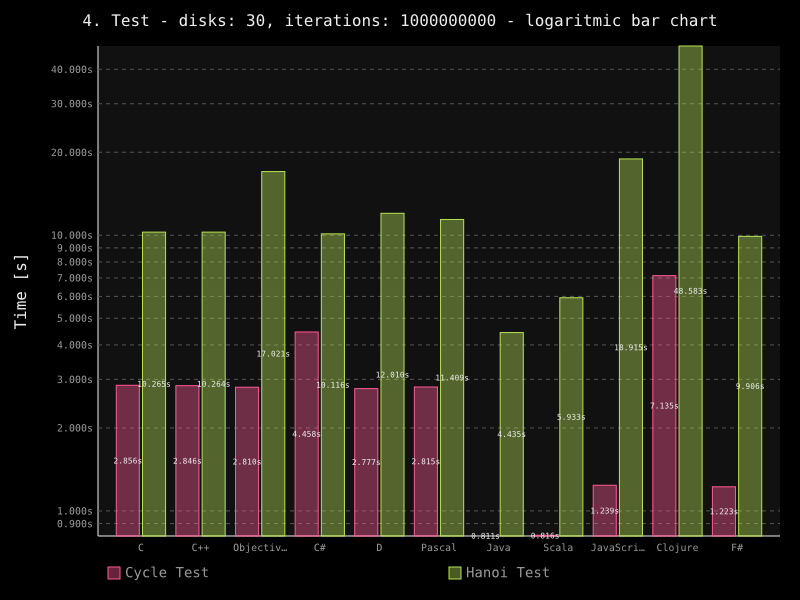
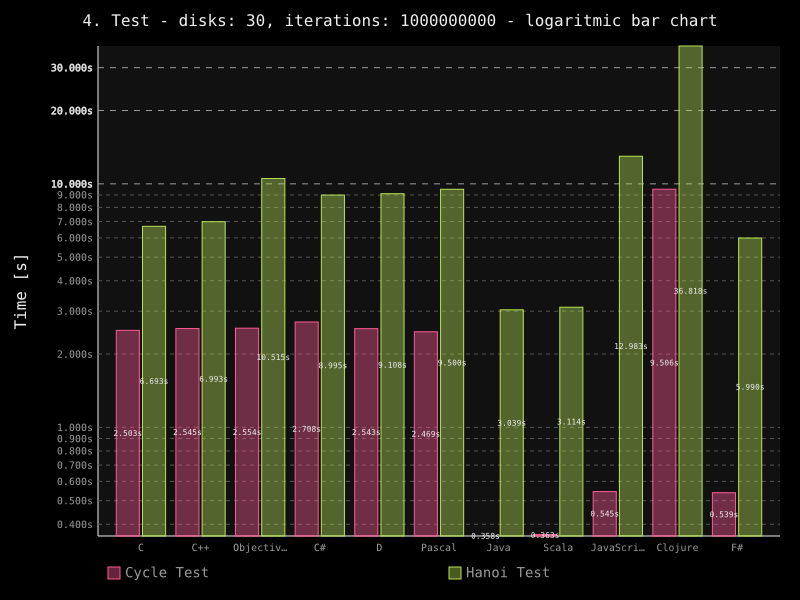
Tested on new device, optimized benchmark time

diff --git a/evaluator/evaluator.py b/evaluator/evaluator.py
@@ -154,12 +154,15 @@ class Evaluator():
                             'iters': test[2], 'results': []})
 
             for lang in languages:
-                if lang.is_available():
+                if lang.is_skipped():
+                    results[-1]['results'].append((lang.name, {}))
+                elif lang.is_available():
                     output = []
                     for _ in range(average):
                         output.append(lang.evaluate(params, timeout))
                         if output[-1] is None:
                             results[-1]['results'].append((lang.name, {}))
+                            lang.skip = True
                             print(bad_output % lang.name)
                             break
                     else:

diff --git a/evaluator/languages.py b/evaluator/languages.py
@@ -44,6 +44,7 @@ class Language(object):
     """ Abstract language class. """
 
     def __init__(self, config_lang):
+        self.skip = False
         self.name = config_lang.NAME
         self.program = config_lang.PROGRAM
 
@@ -60,6 +61,9 @@ class Language(object):
     def run_process(cls, command, timeout=None):
         """ Runs safely process. """
         return ProcessManager.run_process(command, timeout)
+
+    def is_skipped(self):
+        return self.skip
 
     def is_available(self):
         """ Checks if compiler is available """

diff --git a/README.md b/README.md
@@ -86,7 +86,7 @@ Bash and where I would use Swift in future.
 | :-----: | :-----: |
 | Operating System | Darwin-13.2.0-x86_64-i386-64bit |
 | Processor | i386 |
-| Total memory | 2.000GB |
+| Total memory | 4.000GB |
 
 ### Compilers & Interpreters
 
@@ -110,7 +110,7 @@ Bash and where I would use Swift in future.
 | Bash | GNU bash, version 3.2.51(1)-release (x86_64-apple-darwin13) |
 | Prolog | SWI-Prolog version 6.6.6 for x86_64-darwin13.1.0 |
 | Erlang | Erlang (SMP,ASYNC_THREADS,HIPE) (BEAM) emulator version 6.1 |
-| Common Lisp | GNU CLISP 2.49 (2010-07-07) (built 3612292961) (memory 3612293171) |
+| Common Lisp | GNU CLISP 2.49 (2010-07-07) (built on stefans-mac.local [192.168.240.128]) |
 | Clojure | Clojure 1.6.0 |
 | F# | F# Compiler for F# 3.1 (Open Source Edition) |
 | Haskell | The Glorious Glasgow Haskell Compilation System, version 7.6.3 |
@@ -126,29 +126,29 @@ to construct tables and graphs.
     
 | Lang | Avg. cycles | Std. cycles | Avg. hanoi | Std. hanoi |
 | :-----: | :-----: | :-----: | :-----: | :-----: |
-| C | 0.003s | 0.00% | 0.000s | 0.00% |
-| C++ | 0.003s | 0.00% | 0.000s | 0.00% |
-| Objective-C | 0.003s | 0.00% | 0.001s | 0.00% |
-| C# | 0.004s | 15.81% | 0.000s | 0.00% |
-| D | 0.002s | 22.36% | 0.000s | 0.00% |
-| Pascal | 0.002s | 31.62% | 0.000s | 0.00% |
-| Java | 0.004s | 11.18% | 0.001s | 44.72% |
-| Scala | 0.004s | 91.52% | 0.001s | 44.72% |
-| Lua | 0.146s | 7.24% | 0.008s | 13.69% |
-| JavaScript | 0.001s | 77.46% | 0.003s | 94.28% |
-| ActionScript3 | 0.004s | 19.36% | 0.017s | 3.72% |
-| PHP | 0.164s | 6.25% | 0.125s | 3.04% |
-| Ruby | 0.028s | 3.91% | 0.008s | 9.68% |
-| Python | 0.134s | 5.06% | 0.026s | 14.39% |
-| Perl | 0.113s | 2.91% | 0.054s | 2.62% |
-| Bash | 26.610s | 4.45% | 4.356s | 4.08% |
-| Prolog | 0.053s | 4.85% | 0.014s | 137.88% |
-| Erlang | 5.607s | 5.94% | 1.321s | 9.91% |
-| Common Lisp | 1.607s | 9.66% | 0.147s | 12.12% |
-| Clojure | 0.113s | 27.57% | 0.034s | 14.53% |
-| F# | 0.001s | 77.46% | 0.000s | 0.00% |
-| Haskell | 1.331s | 5.62% | 0.116s | 4.48% |
-| Scheme | 0.647s | 3.23% | 0.073s | 1.73% |
+| C | 0.002s | 38.73% | 0.000s | 0.00% |
+| C++ | 0.002s | 22.36% | 0.000s | 0.00% |
+| Objective-C | 0.002s | 22.36% | 0.000s | 0.00% |
+| C# | 0.002s | 0.00% | 0.000s | 0.00% |
+| D | 0.003s | 68.31% | 0.000s | 0.00% |
+| Pascal | 0.001s | 77.46% | 0.000s | 0.00% |
+| Java | 0.002s | 38.73% | 0.000s | 0.00% |
+| Scala | 0.004s | 41.83% | 0.002s | 63.25% |
+| Lua | 0.068s | 4.83% | 0.003s | 25.82% |
+| JavaScript | 0.001s | 0.00% | 0.001s | 63.25% |
+| ActionScript3 | 0.004s | 33.54% | 0.012s | 9.86% |
+| PHP | 0.081s | 15.42% | 0.087s | 5.34% |
+| Ruby | 0.023s | 16.73% | 0.005s | 17.89% |
+| Python | 0.092s | 1.82% | 0.015s | 2.98% |
+| Perl | 0.058s | 3.86% | 0.032s | 5.59% |
+| Bash | 18.054s | 8.86% | 3.054s | 6.27% |
+| Prolog | 0.036s | 6.92% | 0.002s | 124.50% |
+| Erlang | 2.179s | 2.74% | 0.726s | 1.57% |
+| Common Lisp | 0.866s | 0.65% | 0.067s | 4.11% |
+| Clojure | 0.059s | 42.61% | 0.027s | 17.29% |
+| F# | 0.001s | 0.00% | 0.000s | 0.00% |
+| Haskell | 0.846s | 6.23% | 0.069s | 4.15% |
+| Scheme | 0.412s | 5.69% | 0.042s | 6.30% |
 
 ![Bar graph results 1](results/bar_graph1.png)
 
@@ -158,29 +158,29 @@ to construct tables and graphs.
     
 | Lang | Avg. cycles | Std. cycles | Avg. hanoi | Std. hanoi |
 | :-----: | :-----: | :-----: | :-----: | :-----: |
-| C | 0.037s | 38.87% | 0.011s | 14.08% |
-| C++ | 0.028s | 4.23% | 0.010s | 4.47% |
-| Objective-C | 0.028s | 3.57% | 0.017s | 0.00% |
-| C# | 0.044s | 1.76% | 0.010s | 4.47% |
-| D | 0.030s | 16.06% | 0.015s | 52.15% |
-| Pascal | 0.028s | 6.78% | 0.011s | 16.26% |
-| Java | 0.012s | 16.67% | 0.007s | 37.80% |
-| Scala | 0.015s | 42.58% | 0.010s | 26.08% |
-| Lua | 1.409s | 1.62% | 0.249s | 8.22% |
-| JavaScript | 0.012s | 7.45% | 0.019s | 3.33% |
-| ActionScript3 | 0.047s | 2.33% | 0.573s | 2.73% |
-| PHP | 2.018s | 30.20% | 5.011s | 17.71% |
-| Ruby | 0.281s | 0.69% | 0.261s | 7.10% |
-| Python | 1.291s | 1.80% | 0.716s | 2.39% |
-| Perl | 1.116s | 1.27% | 1.727s | 3.51% |
+| C | 0.024s | 3.23% | 0.006s | 10.54% |
+| C++ | 0.024s | 3.23% | 0.006s | 0.00% |
+| Objective-C | 0.024s | 3.23% | 0.010s | 0.00% |
+| C# | 0.027s | 7.22% | 0.008s | 0.00% |
+| D | 0.024s | 0.00% | 0.008s | 0.00% |
+| Pascal | 0.023s | 3.89% | 0.008s | 9.68% |
+| Java | 0.005s | 8.94% | 0.004s | 22.36% |
+| Scala | 0.006s | 19.72% | 0.006s | 27.89% |
+| Lua | 0.711s | 4.70% | 0.117s | 2.48% |
+| JavaScript | 0.005s | 15.49% | 0.013s | 7.69% |
+| ActionScript3 | 0.039s | 3.80% | 0.372s | 4.92% |
+| PHP | 0.680s | 2.80% | 2.609s | 5.17% |
+| Ruby | 0.213s | 1.51% | 0.182s | 4.41% |
+| Python | 0.916s | 0.88% | 0.475s | 0.94% |
+| Perl | 0.536s | 1.46% | 0.970s | 0.62% |
 | Bash | Dead | Dead | Dead | Dead |
-| Prolog | 0.514s | 0.46% | 0.622s | 4.67% |
-| Erlang | 50.018s | 2.44% | 38.377s | 1.44% |
-| Common Lisp | 13.307s | 0.44% | 3.672s | 0.56% |
-| Clojure | 0.133s | 6.68% | 0.184s | 22.80% |
-| F# | 0.012s | 3.73% | 0.011s | 5.75% |
-| Haskell | 13.092s | 3.50% | 3.733s | 3.29% |
-| Scheme | 6.160s | 2.99% | 2.315s | 1.79% |
+| Prolog | 0.356s | 2.15% | 0.303s | 4.08% |
+| Erlang | 21.695s | 5.25% | 24.125s | 4.87% |
+| Common Lisp | 8.775s | 1.01% | 2.164s | 0.73% |
+| Clojure | 0.115s | 40.04% | 0.129s | 22.60% |
+| F# | 0.006s | 32.49% | 0.005s | 8.94% |
+| Haskell | 8.270s | 1.03% | 2.240s | 4.23% |
+| Scheme | 4.201s | 4.44% | 2.723s | 96.49% |
 
 ![Bar graph results 2](results/bar_graph2.png)
 
@@ -190,29 +190,29 @@ to construct tables and graphs.
     
 | Lang | Avg. cycles | Std. cycles | Avg. hanoi | Std. hanoi |
 | :-----: | :-----: | :-----: | :-----: | :-----: |
-| C | 0.282s | 3.69% | 0.310s | 0.32% |
-| C++ | 0.279s | 0.64% | 0.314s | 0.53% |
-| Objective-C | 0.275s | 0.96% | 0.548s | 6.65% |
-| C# | 0.442s | 0.20% | 0.320s | 4.50% |
-| D | 0.276s | 1.40% | 0.382s | 3.73% |
-| Pascal | 0.282s | 1.69% | 0.359s | 2.71% |
-| Java | 0.089s | 15.17% | 0.154s | 0.50% |
-| Scala | 0.084s | 1.77% | 0.199s | 4.25% |
-| Lua | 13.092s | 2.22% | 7.120s | 0.88% |
-| JavaScript | 0.125s | 7.93% | 0.542s | 1.38% |
-| ActionScript3 | 0.447s | 0.41% | 17.199s | 0.23% |
-| PHP | Dead | Dead | Dead | Dead |
-| Ruby | 2.789s | 0.39% | 7.860s | 0.78% |
-| Python | 12.768s | 0.24% | 22.458s | 0.27% |
-| Perl | 10.985s | 0.50% | 53.007s | 1.80% |
+| C | 0.247s | 1.88% | 0.211s | 11.09% |
+| C++ | 0.248s | 2.06% | 0.204s | 5.04% |
+| Objective-C | 0.253s | 3.49% | 0.323s | 1.65% |
+| C# | 0.264s | 2.03% | 0.278s | 2.83% |
+| D | 0.246s | 3.69% | 0.270s | 1.45% |
+| Pascal | 0.241s | 1.54% | 0.284s | 1.54% |
+| Java | 0.037s | 5.27% | 0.108s | 0.59% |
+| Scala | 0.038s | 8.81% | 0.113s | 10.06% |
+| Lua | 6.828s | 3.39% | 3.812s | 2.37% |
+| JavaScript | 0.072s | 29.63% | 0.392s | 3.06% |
+| ActionScript3 | 0.381s | 0.98% | 11.767s | 1.19% |
+| PHP | 6.860s | 2.49% | 83.065s | 1.48% |
+| Ruby | 2.159s | 0.52% | 5.863s | 2.39% |
+| Python | 9.722s | 4.39% | 15.699s | 2.10% |
+| Perl | 5.680s | 2.34% | 32.973s | 2.56% |
 | Bash | Dead | Dead | Dead | Dead |
-| Prolog | 5.101s | 0.58% | 19.397s | 0.79% |
+| Prolog | 3.621s | 4.22% | 10.231s | 1.08% |
 | Erlang | Dead | Dead | Dead | Dead |
 | Common Lisp | Dead | Dead | Dead | Dead |
-| Clojure | 0.864s | 10.27% | 1.582s | 0.56% |
-| F# | 0.121s | 0.74% | 0.314s | 2.46% |
+| Clojure | 17.908s | 163.57% | 1.228s | 4.55% |
+| F# | 0.060s | 9.01% | 0.185s | 3.16% |
 | Haskell | Dead | Dead | Dead | Dead |
-| Scheme | Dead | Dead | Dead | Dead |
+| Scheme | 39.938s | 0.53% | 41.735s | 1.61% |
 
 ![Bar graph results 3](results/bar_graph3.png)
 
@@ -222,16 +222,16 @@ to construct tables and graphs.
     
 | Lang | Avg. cycles | Std. cycles | Avg. hanoi | Std. hanoi |
 | :-----: | :-----: | :-----: | :-----: | :-----: |
-| C | 2.856s | 0.53% | 10.265s | 0.41% |
-| C++ | 2.846s | 0.66% | 10.264s | 0.75% |
-| Objective-C | 2.810s | 1.78% | 17.021s | 0.66% |
-| C# | 4.458s | 0.31% | 10.116s | 0.22% |
-| D | 2.777s | 0.99% | 12.010s | 0.43% |
-| Pascal | 2.815s | 0.49% | 11.409s | 0.36% |
-| Java | 0.811s | 0.23% | 4.435s | 0.18% |
-| Scala | 0.816s | 2.12% | 5.933s | 0.33% |
+| C | 2.503s | 0.52% | 6.693s | 1.75% |
+| C++ | 2.545s | 3.90% | 6.993s | 12.45% |
+| Objective-C | 2.554s | 4.41% | 10.515s | 1.28% |
+| C# | 2.708s | 2.70% | 8.995s | 1.15% |
+| D | 2.543s | 5.48% | 9.108s | 4.17% |
+| Pascal | 2.469s | 1.99% | 9.500s | 3.63% |
+| Java | 0.358s | 1.36% | 3.039s | 0.25% |
+| Scala | 0.363s | 3.45% | 3.114s | 2.04% |
 | Lua | Dead | Dead | Dead | Dead |
-| JavaScript | 1.239s | 1.62% | 18.915s | 3.60% |
+| JavaScript | 0.545s | 2.04% | 12.983s | 3.18% |
 | ActionScript3 | Dead | Dead | Dead | Dead |
 | PHP | Dead | Dead | Dead | Dead |
 | Ruby | Dead | Dead | Dead | Dead |
@@ -241,8 +241,8 @@ to construct tables and graphs.
 | Prolog | Dead | Dead | Dead | Dead |
 | Erlang | Dead | Dead | Dead | Dead |
 | Common Lisp | Dead | Dead | Dead | Dead |
-| Clojure | 7.135s | 5.34% | 48.583s | 2.86% |
-| F# | 1.223s | 1.23% | 9.906s | 0.57% |
+| Clojure | 9.506s | 83.35% | 36.818s | 1.29% |
+| F# | 0.539s | 1.74% | 5.990s | 0.87% |
 | Haskell | Dead | Dead | Dead | Dead |
 | Scheme | Dead | Dead | Dead | Dead |
 
